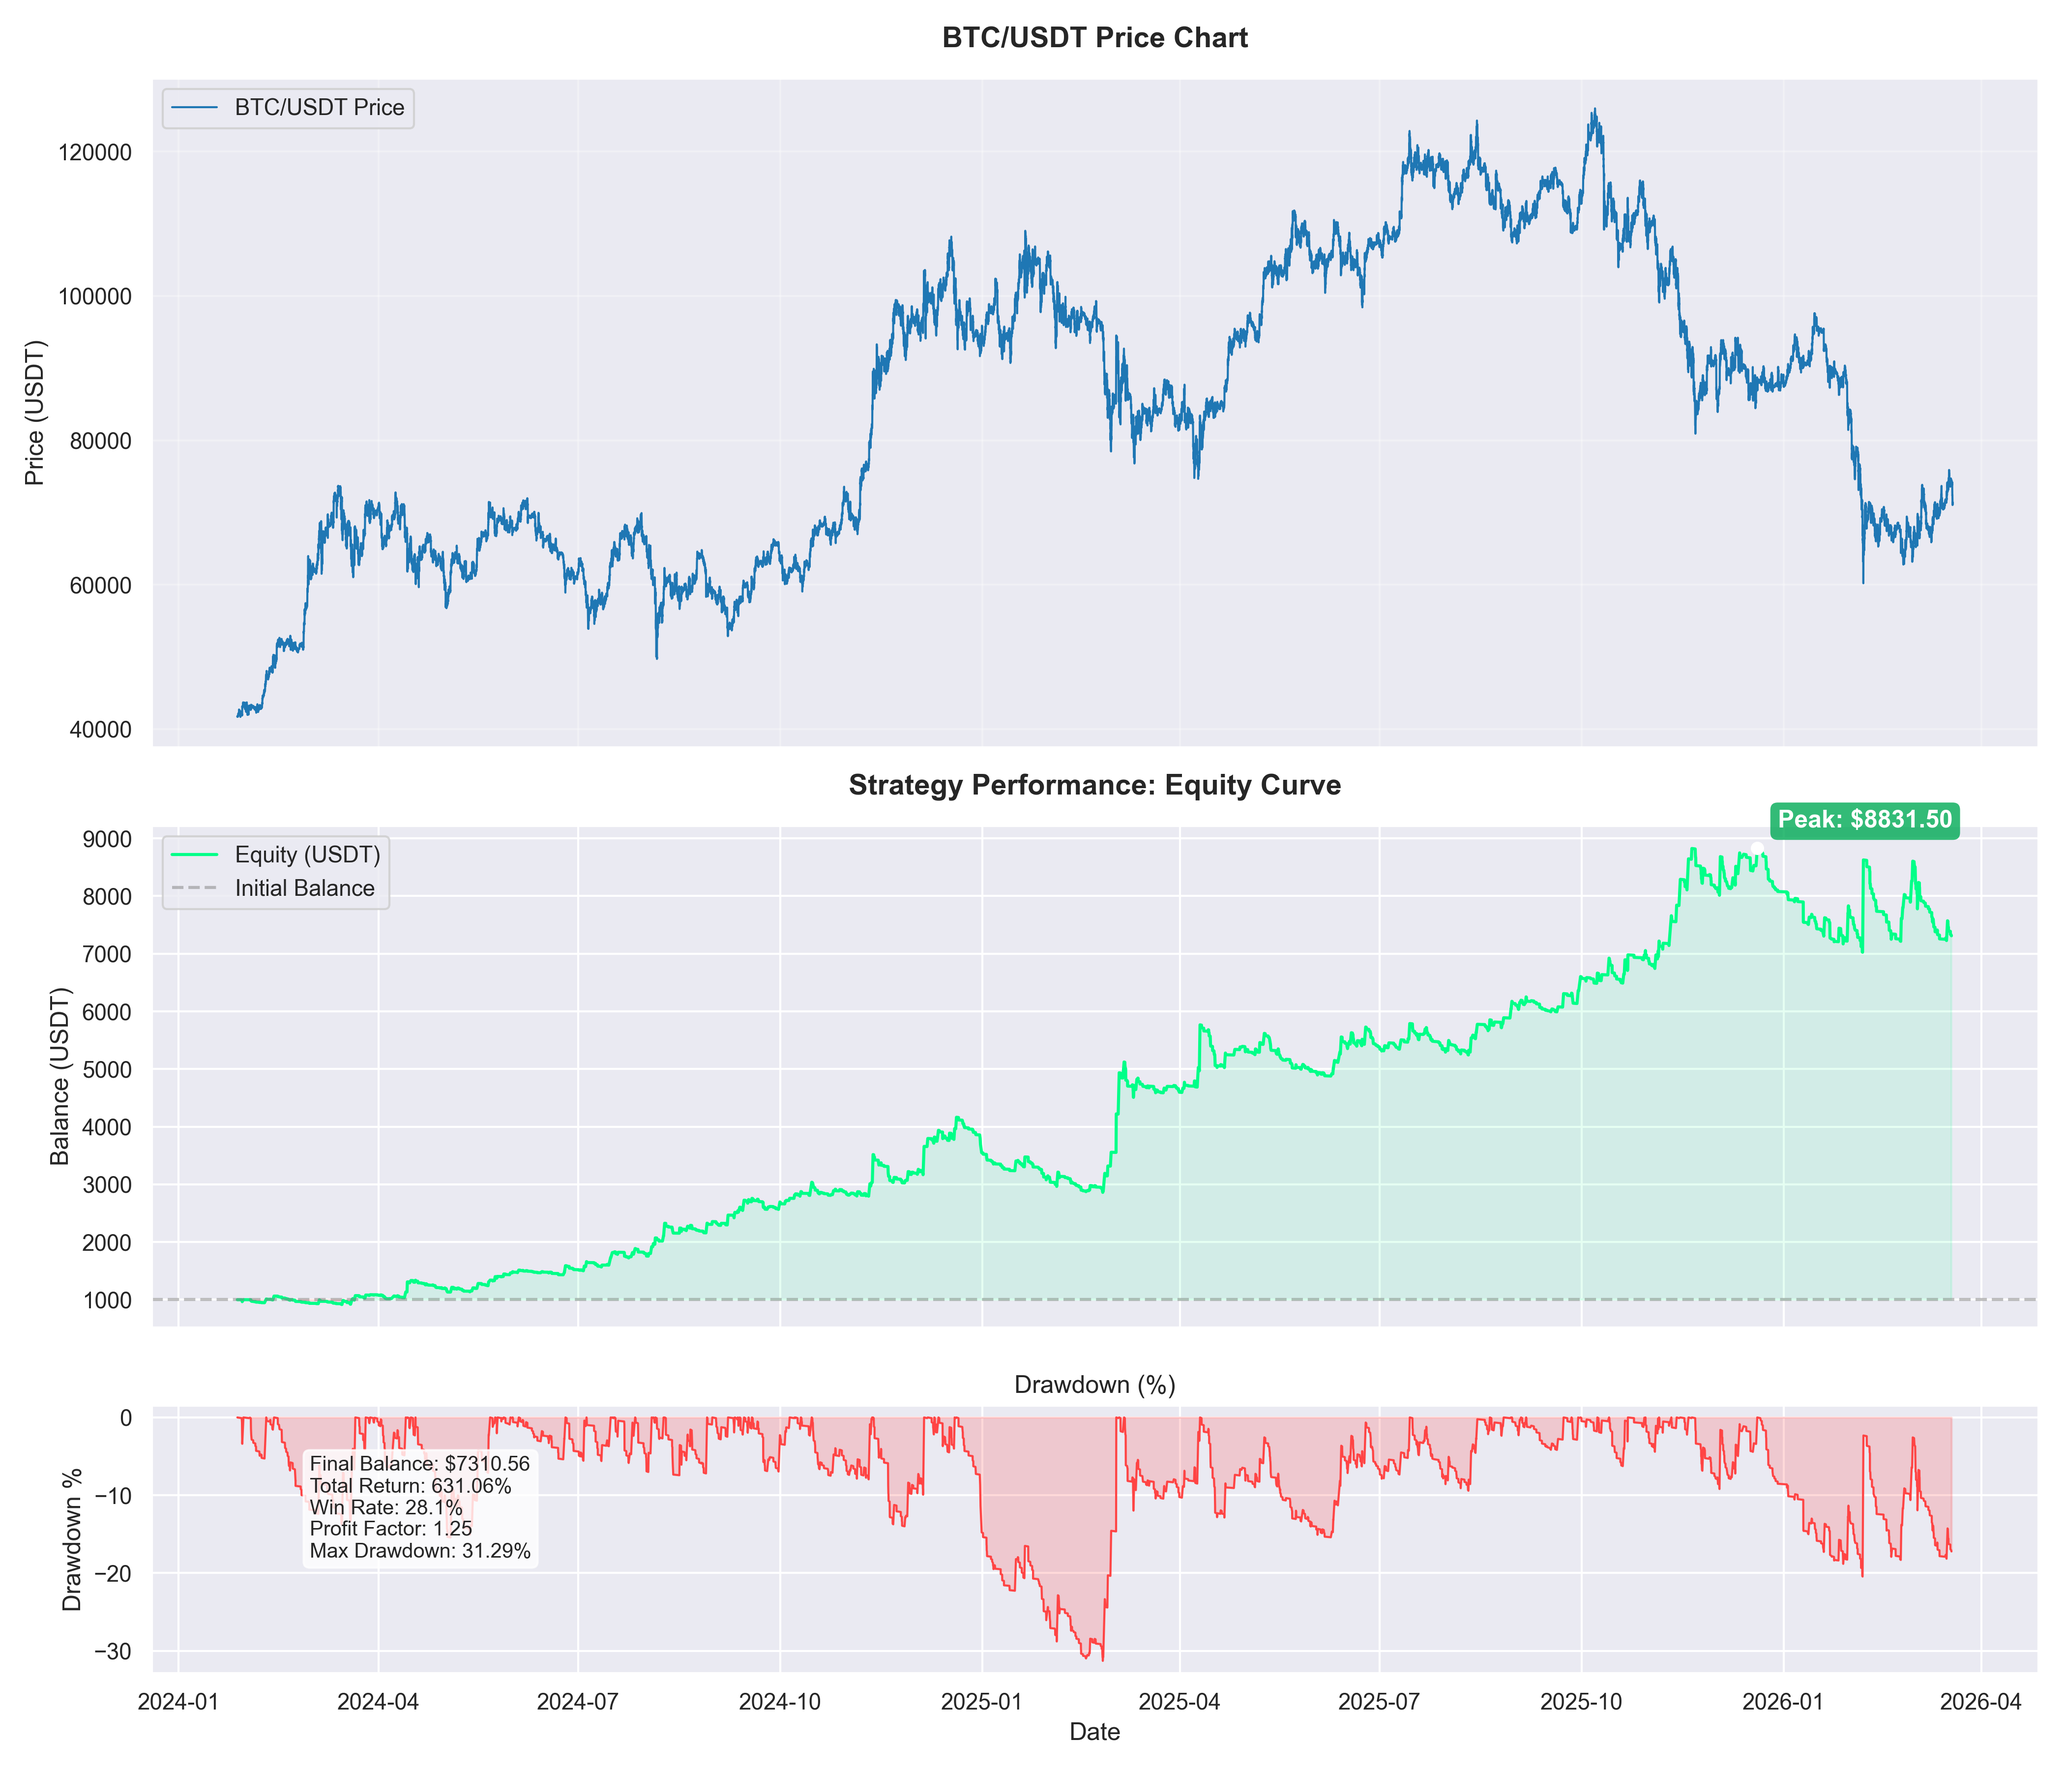
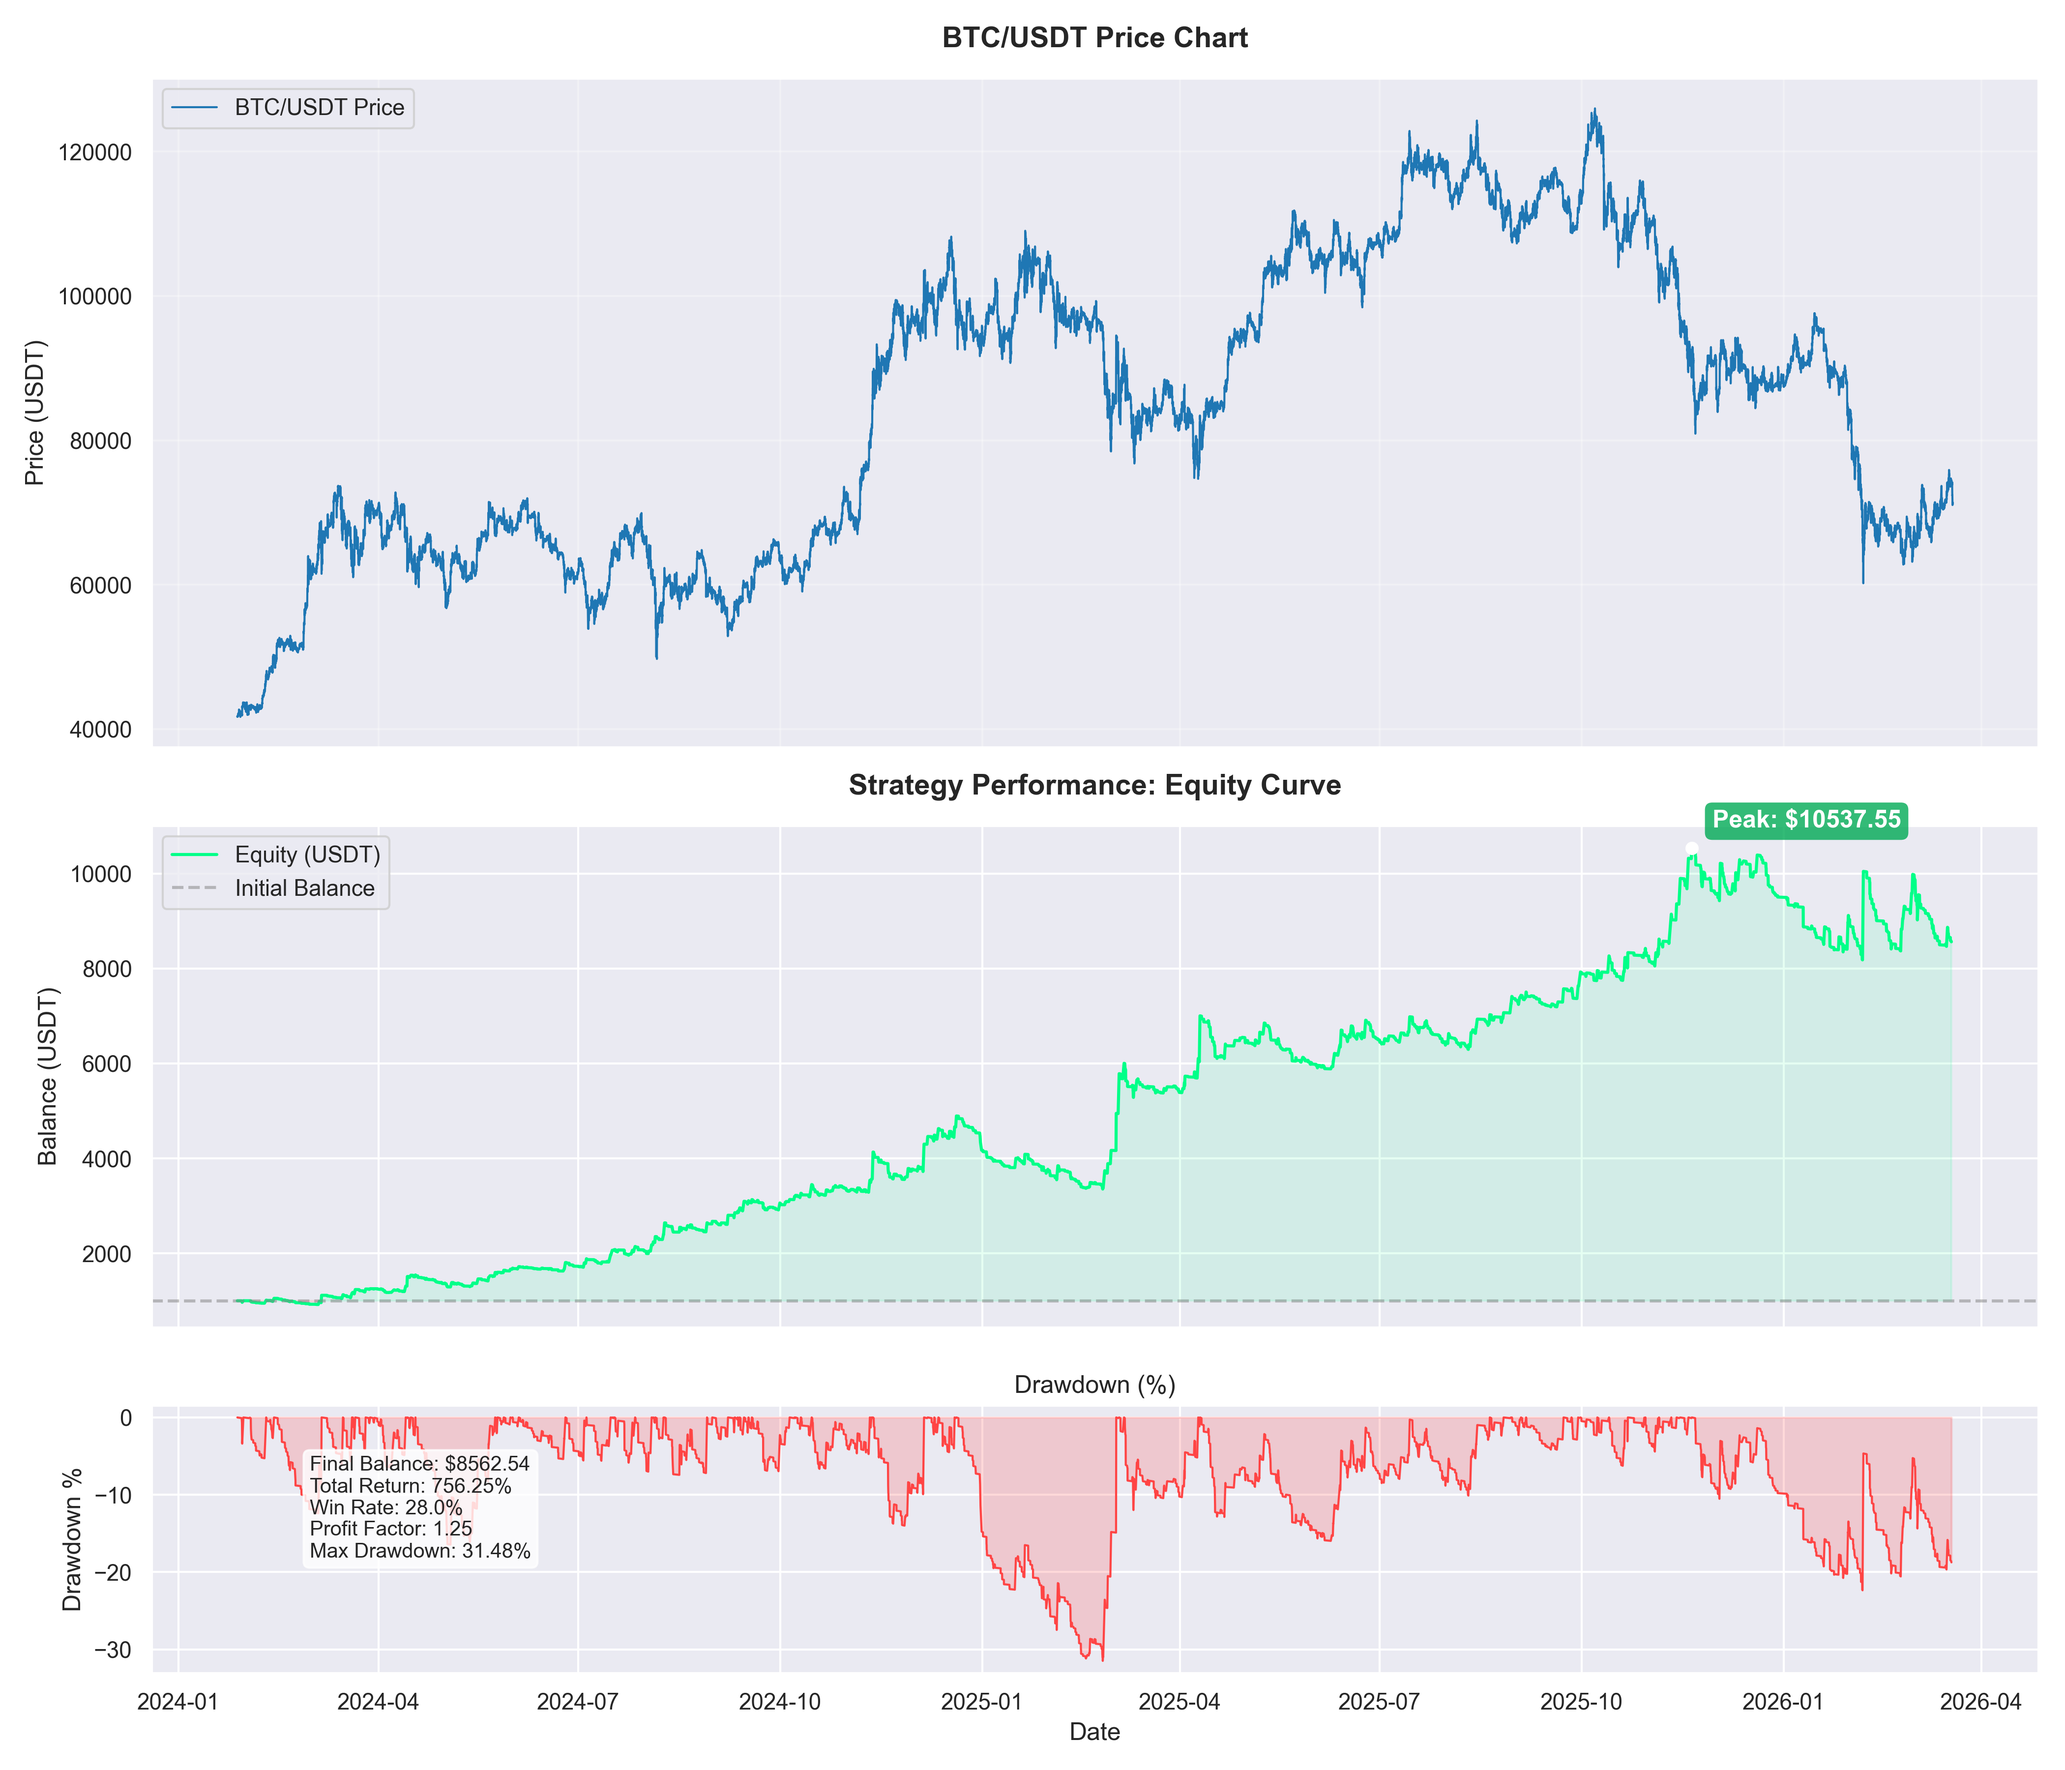
New

diff --git a/config.py b/config.py
@@ -4,9 +4,9 @@ from dataclasses import dataclass
 
 # ==========================================
 # BINANCE TRADING BOT CONFIGURATION
-# Version: 1.16.0 (Production Stable Release 2026)
-# Date: 2026-03-02
-# Strategy: Pure Trend Following (SuperTrend + EMA + ADX + RSI + Vol)
+# Version: 1.16.1 (Optimized EMA Release)
+# Date: 2026-03-18
+# Strategy: EMA Filter + Volume Confirmed SuperTrend
 # ==========================================
 
 # Load .env from project root or resource directory
@@ -31,7 +31,7 @@ class TradingConfig:
     ROI_TP = 77.5                # Take Profit target in % ROI (from optimization)
     SUPERTREND_LENGTH: int = 18
     SUPERTREND_FACTOR: float = 1.45
-    EMA_LENGTH: int = 102
+    EMA_LENGTH: int = 97
     
     # Risk Management
     LEVERAGE: int = 10

diff --git a/README.md b/README.md
@@ -1,4 +1,4 @@
-# Binance Futures Trading Bot (v1.15.2 - 2026 Production Stable)
+# Binance Futures Trading Bot (v1.16.1 - 2026 Optimized)
 
 ![License](https://img.shields.io/badge/license-MIT-blue.svg)
 ![Python](https://img.shields.io/badge/python-3.10%2B-blue)
@@ -7,7 +7,7 @@
 
 A robust, trend-following trading bot strategies for Binance Futures. This bot uses a combination of **SuperTrend**, **EMA (Exponential Moving Average)**, **ADX (Average Directional Index)**, **RSI (Relative Strength Index)**, and Volume analysis to execute trades.
 
-> **Note**: Version 1.15.2 is the official Production Stable release for 2026. Core logic and risk configurations are finalized for long-term stability.
+> **Note**: Version 1.16.1 is the **Optimized EMA Release**. It features a specialized filter configuration (EMA + Volume) that achieved **+756% PnL** during a 2-year backtest on BTC/USDT (15m).
 
 ## 🚀 Features
 
@@ -80,7 +80,7 @@ Global settings are managed in `config.py` (and the `TradingConfig` class). Key 
 -   **Position Size**: `20%` of Balance per trade
 -   **Indicators**:
     -   SuperTrend (Length 18, Factor 1.45)
-    -   EMA (Length 102)
+    -   EMA (Length 97) - *Optimized for 15m BTC*
     -   RSI (14, OB 64, OS 36)
 
 ## 📊 Strategy Overview

diff --git a/CHANGELOG.md b/CHANGELOG.md
@@ -1,3 +1,12 @@
+## [1.16.1] - 2026-03-18
+### Added
+- **PnL Milestone**: Achieved **+756% PnL** in a 2-year backtest for BTC/USDT 15m using the EMA + Volume Filter combo.
+### Optimized
+- **EMA Length**: Fine-tuned EMA from 102 down to **97** after thorough optimization.
+### Changed
+- **Default Strategy**: Revised default trading filters to **EMA + Volume** only, as it yielded the highest Profit Factor (1.25) and Net Profit compared to ADX-based filters.
+- **Documentation**: Incremented version to 1.16.1 across all files.
+
 ## [1.16.0] - 2026-03-07
 ### Changed
 - **Optimization**: Updated `ATR_MULTIPLIER` and other strategy parameters based on performance analysis.
